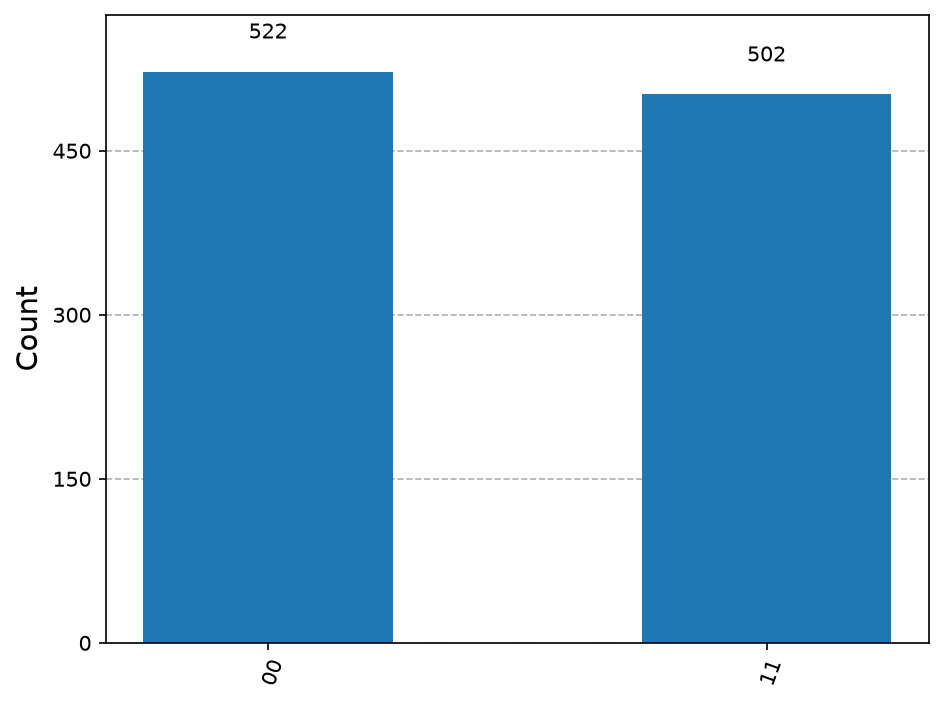
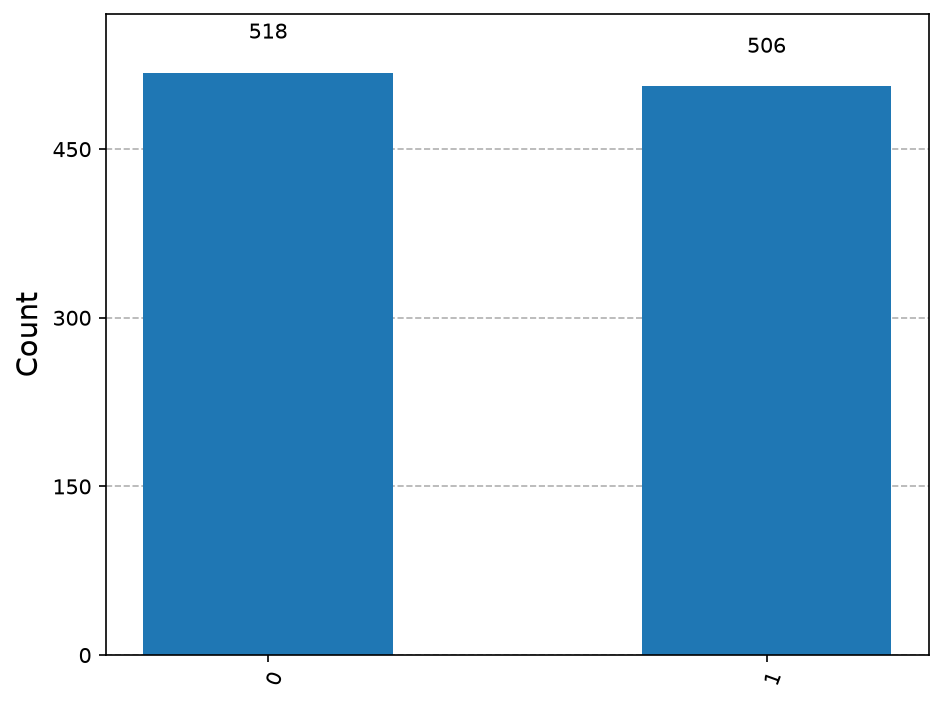
Fix cmd_add to parse gate parameters (angles, etc.)

diff --git a/src/qcc/qasm_d/parser.py b/src/qcc/qasm_d/parser.py
@@ -1,5 +1,4 @@
 import re
-from typing import List, Tuple
 from ..core.models import CircuitAST, Gate, GateType
 from ..core.exceptions import ParseError
 
@@ -27,7 +26,7 @@ class QASMDParser:
         if not s:
             raise ParseError("Empty string")
 
-        # Find first delimiter
+        # Find the first delimiter
         delim_pos = s.find('0')
         if delim_pos == -1:
             raise ParseError("Missing delimiter after qubit count")
@@ -35,15 +34,15 @@ class QASMDParser:
             num_qubits = int(s[:delim_pos])
         except ValueError:
             raise ParseError("Invalid qubit count")
-        s = s[delim_pos+1:]  # remove qubit count and delimiter
+        # Remove the qubit count and the first delimiter
+        s = s[delim_pos+1:]
 
         ast = CircuitAST(num_qubits=num_qubits)
 
-        # We'll split on '0' but handle consecutive zeros as a single token "00"
-        # We'll manually parse by scanning for non-zero runs, but we need to detect "00".
+        # We'll scan the string token by token.
         i = 0
         while i < len(s):
-            # Skip leading zeros (they are delimiters)
+            # Skip any leading zeros (they are delimiters)
             zero_count = 0
             while i < len(s) and s[i] == '0':
                 zero_count += 1
@@ -52,8 +51,9 @@ class QASMDParser:
                 # Two or more zeros: measure all and stop
                 for q in range(num_qubits):
                     ast.add_gate(Gate(type=GateType.MEASURE, qubits=[q], classical_bits=[q]))
-                # If there are more characters after, they would be ignored (spec says stop)
+                # If there are remaining characters, they are ignored.
                 break
+
             # Now we have a token (non-zero characters)
             token_start = i
             while i < len(s) and s[i] != '0':
@@ -67,6 +67,9 @@ class QASMDParser:
             if gate_code not in cls._gate_map:
                 raise ParseError(f"Unknown gate code: {gate_code}")
             gate_type = cls._gate_map[gate_code]
+
+            # Parameters are the rest of the token, each character is a digit
+            # We'll parse them as a list of integers
             params_str = token[1:]
             params = []
             for ch in params_str:
@@ -78,6 +81,7 @@ class QASMDParser:
             # Convert 1-based indices to 0-based
             params = [p - 1 for p in params]
 
+            # Now build the gate based on type
             if gate_type == GateType.H:
                 if len(params) != 1:
                     raise ParseError(f"H requires 1 qubit, got {len(params)}")

diff --git a/src/qcc/cli/repl.py b/src/qcc/cli/repl.py
@@ -93,12 +93,28 @@ class QCCRepl:
             print("Usage: add <gate> <q0> [q1] [param...]")
             return
         gate_name = args[0].upper()
-        try:
-            qubits = [int(q) for q in args[1:] if q.replace('-', '').isdigit()]
-        except ValueError:
-            print("Invalid qubit indices. Use numbers.")
+        
+        # Parse qubits and parameters
+        qubits = []
+        params = []
+        for arg in args[1:]:
+            try:
+                # Try to interpret as int (qubit index)
+                q = int(arg)
+                qubits.append(q)
+            except ValueError:
+                # Not an int, treat as float parameter
+                try:
+                    p = float(arg)
+                    params.append(p)
+                except ValueError:
+                    print(f"Invalid argument: {arg}")
+                    return
+        if not qubits:
+            print("At least one qubit required.")
             return
 
+        # Find gate type
         gate_type = None
         for g in GateType:
             if g.value.upper() == gate_name:
@@ -108,21 +124,24 @@ class QCCRepl:
             print(f"Unknown gate: {gate_name}. Available: {[g.value for g in GateType]}")
             return
 
-        gate = Gate(type=gate_type, qubits=qubits)
+        # Create the gate with parameters
+        gate = Gate(type=gate_type, qubits=qubits, params=params)
         self.session.circuit.add_gate(gate)
 
+        # Update num_qubits based on highest qubit index
         if qubits:
             max_q = max(qubits)
             if self.session.circuit.num_qubits <= max_q:
                 self.session.circuit.num_qubits = max_q + 1
 
+        # Update num_classical if measure gate
         if gate_type == GateType.MEASURE and gate.classical_bits:
             max_c = max(gate.classical_bits)
             if self.session.circuit.num_classical <= max_c:
                 self.session.circuit.num_classical = max_c + 1
 
         self.session.commit()
-        print(f"✅ Added {gate_name} on qubits {qubits}.")
+        print(f"✅ Added {gate_name} on qubits {qubits} with params {params}.")
 
     def cmd_list(self, args):
         ops = self.session.circuit.operations
